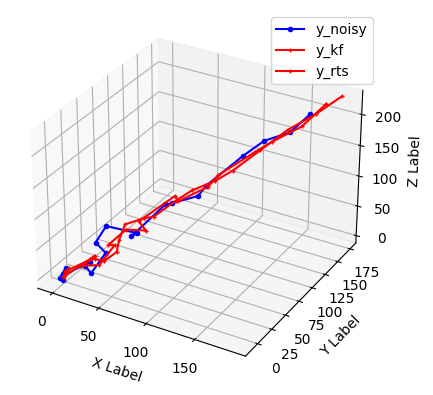
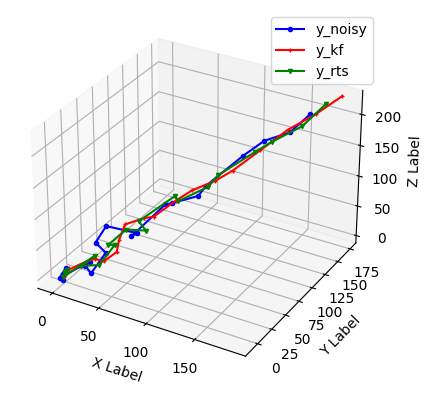
fixed q1

diff --git a/hw6/q1.py b/hw6/q1.py
@@ -10,7 +10,7 @@ from scipy.integrate import solve_ivp
 import numpy as np
 import matplotlib.pyplot as plt
 # ------------------------------------------------------------------------------
-
+np.set_printoptions(suppress=True)
 
 # ------------------------------------------------------------------------------
 # q1.a
@@ -18,7 +18,6 @@ print("\n#", "-"*50)
 print("q1 a) state space model")
 J1, J2, ki, k, c, s = symbols("J1,J2,ki,k,c,s")
 x1, x2, x3, x4 = symbols("x1,x2,x3,x4")
-k1, k2, k3, k4 = symbols("k1,k2,k3,k4")
 
 w0 = sqrt(k * (J1 + J2) / (J1 * J2))
 A = Matrix([[0.0,   0.0,       w0,      0.0],
@@ -27,9 +26,9 @@ A = Matrix([[0.0,   0.0,       w0,      0.0],
             [k/J2, -k/J2,  w0*c/J2, -w0*c/J2]])
 X = Matrix([x1, x2, x3, x4])
 B = Matrix([0, 0, ki/J1, 0])
+
 # distortion
 B_dist = Matrix([0, 0, 0, 1/J2])
-K = Matrix([k1, k2, k3, k4]).T
 
 print("A:")
 pprint(A)
@@ -44,6 +43,7 @@ pprint(B_dist)
 # q1.b
 print("\n#", "-"*50)
 print("q1 b) parameters")
+
 _J1 = 10.0 / 9.0
 _J2 = 10.0
 _c = 0.1
@@ -51,16 +51,16 @@ _k = 1.0
 _ki = 1.0
 w0 = w0.subs({J1: _J1, J2: _J2, c: _c, k: _k, ki: _ki})
 print("params:\n")
-print(f"\tJ1: {_J1}\n\tJ2: {_J2}\n\tc: {_c}\n\tJ1: {_J1}\n\tk: {_k}\n\tki: {_ki}\n\tw0: {w0}")
+print(f"\tJ1: {_J1}\n\tJ2: {_J2}\n\tc: {_c}\n\tk: {_k}\n\tki: {_ki}\n\tw0: {w0}")
 
 A = A.subs({J1: _J1, J2: _J2, c: _c, k: _k, ki: _ki, w0: w0})
 
 print("A:")
 pprint(A)
 
-print("eigen values of A:")
 poles_open_loop = np.array([k for k in A.eigenvals().keys()], dtype=complex)
-pprint(poles_open_loop)
+print(f"open-loop poles:\n{poles_open_loop}")
+
 
 # ------------------------------------------------------------------------------
 # q1.c
@@ -76,20 +76,20 @@ print(f"B:\n{B}")
 poles = [-2, -1, -1+1j, -1-1j]
 fsf = signal.place_poles(A, B, poles, method='YT')
 K = fsf.gain_matrix
-
 print(f"K:\n{K}")
 
-t = np.linspace(0, 2*np.pi, 401)
-plt.plot(np.cos(t), np.sin(t), 'k--')  # unit circle
-plt.plot(poles_open_loop.real, poles_open_loop.imag, 'rx',
-         label='open_loop eig')
-plt.plot(fsf.computed_poles.real, fsf.computed_poles.imag, 'bx',
-         label='closed_loop eig')
-plt.axis([-2.1, 1.1, -1.1, 1.1])
-plt.grid()
-plt.legend()
+# visualizing poles 
+# t = np.linspace(0, 2*np.pi, 401)
+# plt.plot(np.cos(t), np.sin(t), 'k--')  # unit circle
+# plt.plot(poles_open_loop.real, poles_open_loop.imag, 'rx',
+#          label='open_loop eig')
+# plt.plot(fsf.computed_poles.real, fsf.computed_poles.imag, 'bx',
+#          label='closed_loop eig')
+# plt.axis([-2.1, 1.1, -1.1, 1.1])
+# plt.grid()
+# plt.legend()
 # plt.show()
-plt.close()
+# plt.close()
 
 # ------------------------------------------------------------------------------
 # q1 d)
@@ -97,23 +97,31 @@ print("\n#", "-"*50)
 print("q1 d) simulate state feedback loop")
 
 x_ref = np.zeros(shape=(4, 1), dtype=np.float)
-x_ref[0] = 0.0
-x_ref[1] = 1.0
+x_ref[0] = 0 # phi1
+x_ref[1] = 1 # phi2
 print(f"x_ref:\n{x_ref}")
 
 x = np.zeros(shape=(4, 1), dtype=np.float)
 print(f"x:\n{x}")
 
-td = 0.5
-Bd = np.asarray(B_dist.subs({J2: _J2})).astype(np.float64).reshape(4, 1) * td
-print(f"Bd:\n{Bd}\n")
+td = 5.0
+d = td / _J2
+print(f"d:\n{d}\n")
 
-C = np.array([1, 1, 0, 0]).reshape(4, 1)
+C = np.array([[1, 1, 1, 1]])
 print(f"C:\n{C}\n")
 
 # A_closed-loop
+print(f"BK:\n{B @ K}\n")
 A_cl = A - B @ K
-print(f"A_closed loop:\n{A_cl}\n")
+print(f"Closed-loop A_cl = A - BK:\n{A_cl}\n")
+
+# dc gain
+kr = -(1.0 / (np.linalg.inv(A_cl) @ B))[0, 0]
+kr = kr * np.ones(shape=(1, 4))
+print(f"kr: {kr}\n")
+print(f"x_ref * kr:\n {x_ref * kr}")
+print(f"Bkr:\n{B * kr}")
 
 t_seconds = 10
 t_step = 0.05
@@ -124,22 +132,18 @@ num_iters = len(t)
 Y = []
 X = []
 
-Kr = -1.0 / (C.reshape(4,) @ np.linalg.inv(A - B @ K) @ B)
-print(f"Kr:\n{Kr}\n")
-
-
-def dynamics(t, x, r):
+def dynamics(t, x, u):
     x = x.reshape(4, 1)
-    x_dot = A_cl @ x + B * Kr * r + Bd
+    x_dot = A_cl @ x + B * u
     return x_dot
 
 for i in range(1, num_iters):
-    
+    u = kr @ x_ref + d
     x = x.reshape(4, )
-    sol = solve_ivp(dynamics, [t[i-1], t[i]], x, args=[x_ref], vectorized=True)
+    sol = solve_ivp(dynamics, [t[i-1], t[i]], x, args=[u], vectorized=True)
     x = sol.y[:, -1].reshape(4, 1)
 
-    y = C * x
+    y = C @ x
     X.append(x)
     Y.append(y)
 
@@ -147,25 +151,16 @@ Y = np.asarray(Y)
 X = np.asarray(X)
 t = t[:-1]
 
-fig, ax = plt.subplots(nrows=4, ncols=1, sharex=True)
 
-ax[0].set_title('step response')
-ax[0].plot(t, X[:, 0], label='x1')
-ax[0].set_ylabel('x1')
-ax[0].legend()
+plt.title(f'Step Response tau_d: {td}')
+plt.xlabel('time')
+plt.axhline(y=1.0, color='black', linestyle='--')
 
-ax[1].plot(t, X[:, 1], label='x2')
-ax[1].set_ylabel('x2')
-ax[1].legend()
+plt.plot(X[:, 0], label='x1')
+plt.plot(X[:, 1], label='x2')
+plt.plot(X[:, 2], label='dx1')
+plt.plot(X[:, 3], label='dx2')
 
-ax[2].plot(t, X[:, 2], label='dx1')
-ax[2].set_ylabel('dx1')
-ax[2].legend()
-
-ax[3].plot(t, X[:, 3], label='dx2')
-ax[3].set_ylabel('dx2')
-ax[3].legend()
-
-plt.xlabel('t')
 plt.legend()
+plt.savefig(f'step-resp_td-{td}.png', bbox_inches='tight')
 plt.show()

diff --git a/hw6/q2.py b/hw6/q2.py
@@ -96,6 +96,7 @@ k = len(P_list) - 2
 y_rts = np.zeros_like(ydata)
 while k > 0:
     # equations to compute 
+    #   k < n
     #   x_{k|n} = x_{k|k} + C_{k} (x_{k+1|n} - x_{k+1|k})
     #   P_{k|n} = P_{k|k} + C_{k} (P_{k+1|n} - P_{k+1|k}) C_{k}^{T}
     #     C_{k} = P_{k|k} B^{T} P_{k+1|k}^{-1}
@@ -114,7 +115,7 @@ ax.plot3D(ydata[:, 0], ydata[:, 1], ydata[:, 2],
 ax.plot3D(y_kf[:, 0], y_kf[:, 1], y_kf[:, 2], 
           marker='+', markersize=3, color='red', label='y_kf')
 ax.plot3D(y_rts[:, 0], y_rts[:, 1], y_rts[:, 2], 
-          marker='+', markersize=3, color='red', label='y_rts')
+          marker='v', markersize=3, color='green', label='y_rts')
 ax.legend()
 ax.set_xlabel('X Label')
 ax.set_ylabel('Y Label')
